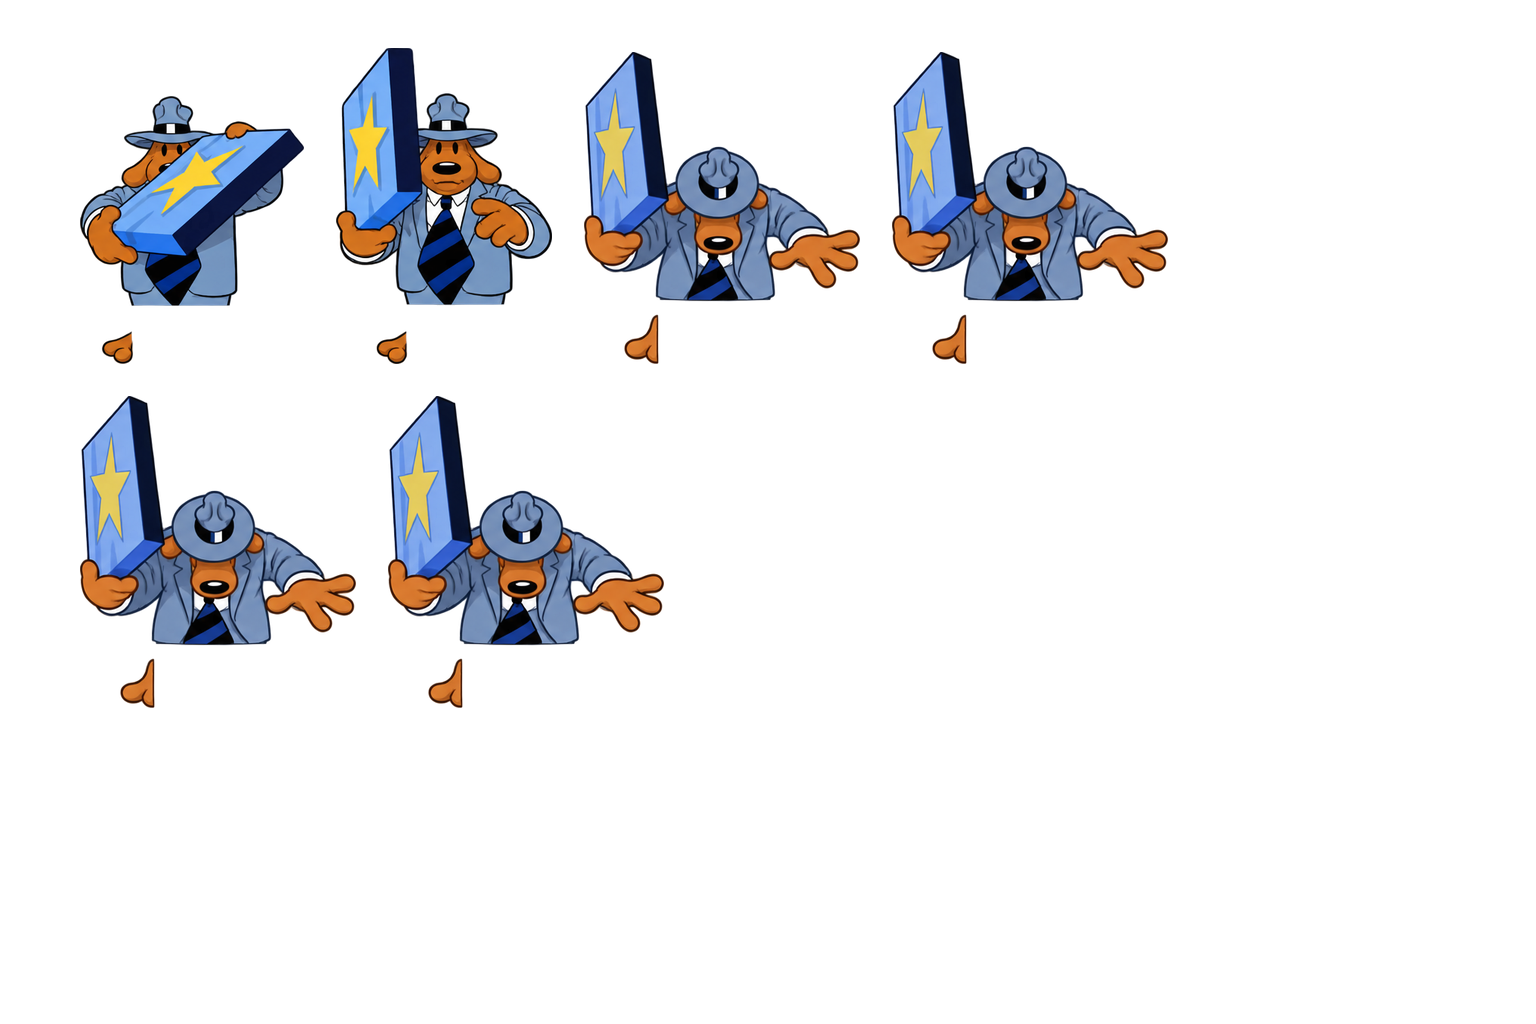
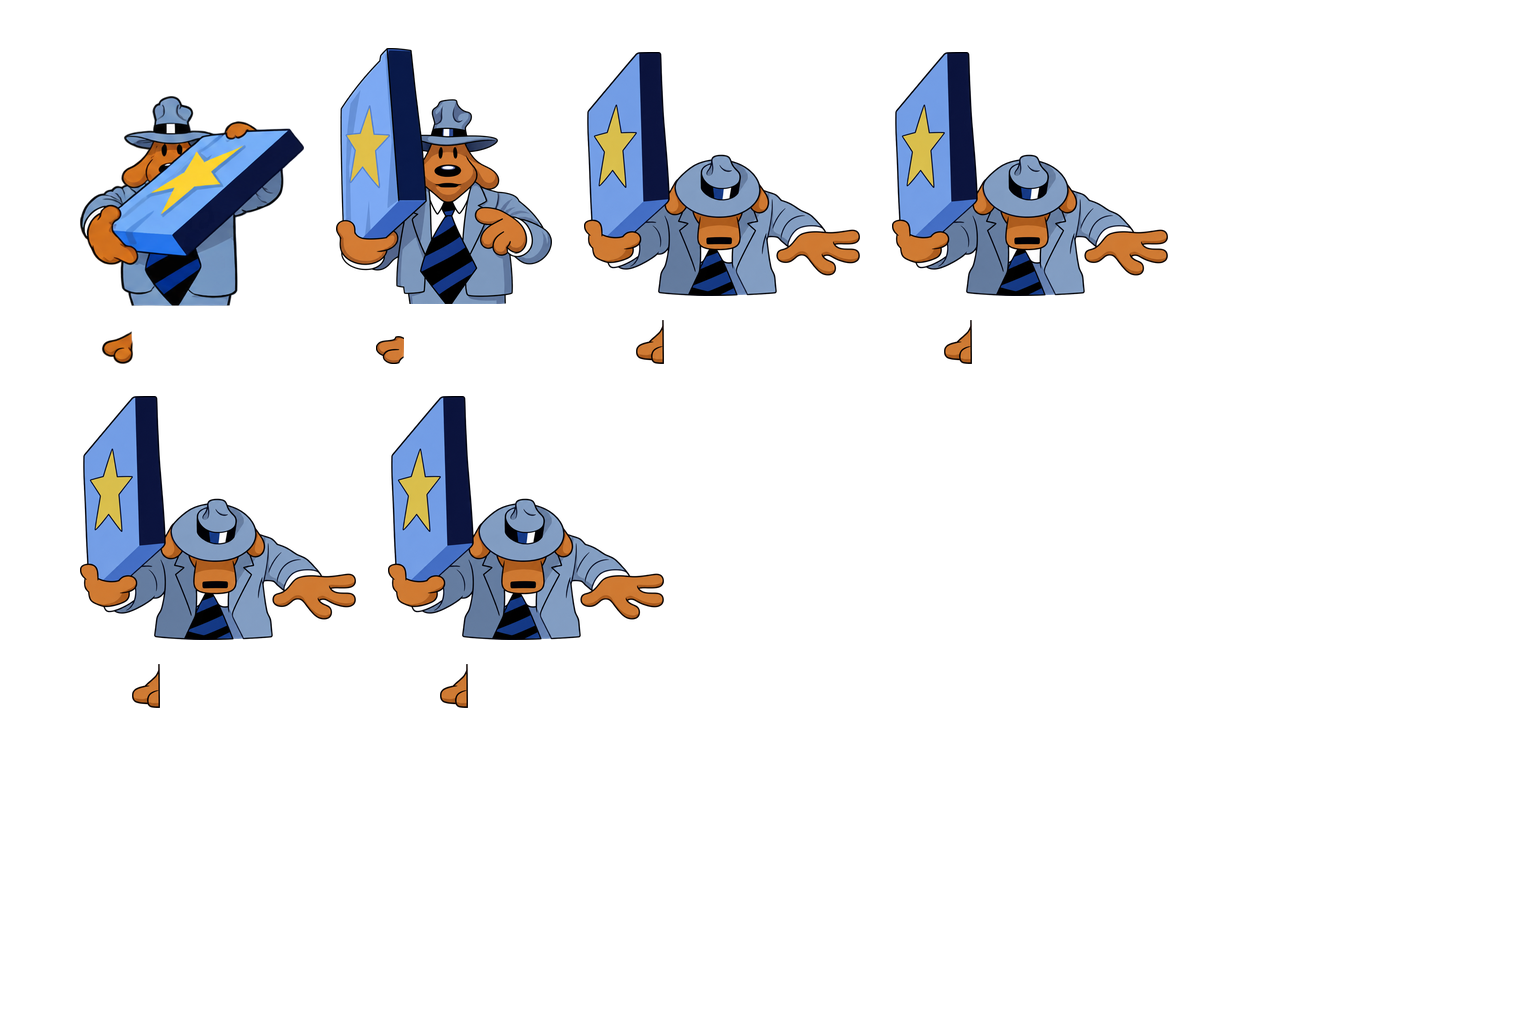
GPT (natt): sikre fig091_04 fra stash etter commit-feil

Changed region(s): [[0.2188, 0.0312, 0.7812, 0.375], [0.0312, 0.375, 0.4375, 0.6875]]

diff --git a/jobber/fig091_04/notat.md b/jobber/fig091_04/notat.md
@@ -1,9 +1,31 @@
-# Leveranse fig091_04
+# Returleveranse fig091_04
 
[1 lines of base64/hex data omitted]
+Dato: 15. oktober 2026. Gren: gpt-arbeid.
 
-Innebygd ChatGPT imagegen, ett råforsøk per midlertidig komponentgruppe. Eksakt modellnavn er ikke eksponert av verktøyet. Ordrette jobbprompter er bevart i gruppenes promptfiler, med separat kildepresisering. Sam-hovedark er identitets-/stilanker; originalene bestemmer positur, klær, farger, avkutting og lokkperspektiv. 35 unike nye motiver dekker familiens 49 ruter gjennom dokumentert kildeidentisk gjenbruk.
+Rettet costume091_1957, costume091_1958, costume091_1959, costume091_1960 og costume091_1961 etter ORDRE.md og forhandsvisning/myk_fig091_04.png. Det finnes ingen egen retur.md. Hele arket leveres som RGBA på 1536 x 1024 med ekte alfa. Costume091_1956 og alt utenfor de fem returrutenes områder er bevart pikselidentisk.
 
-Ny alfa brukes til avgrensning. Alfa under 16 nulles, øvrig alfa skaleres fra 254 til 255, så hele nye komponenten skaleres til originalens 4×-boks med Lanczos. Ingen originalmaske eller lokal warp. Mapping, råbilder, rutekart og oppskrifter ligger i rapporter/bestilling059-20261013/b-*. Kildehash for jobbens fire beskyttede filer står i b-kildehash.json og er kontrollert uendret.
+## Kilde og motiv
 
-Alle cel-sammenligninger og rel-sekvenser er visuelt gjennomgått. Bevarte særtrekk er tom nedre kropp, brun separat fotrest, egne hender og benløft samt blått lokk med gul stjerne. HD har rundere føtter/fingre, renere jakkefolder og tydeligere ansiktsstreker enn kildepikslene. Små interne konturer er en HD-tolkning, ikke pikselidentisk reproduksjon. Ingen runtime-test eller ny individuell brukergodkjenning er påstått.
+Jobbens original_1x.png og referanse.png er sett sammen med hovedark/sam.png og den returnerte forhåndsvisningen. ANALYSE.md, GJENNOMGANG.md og remake-skillen fra lokal main er lest. Figurregisteret i main, docs/figurer.csv, identifiserer kostyme 91 som Sam med blå eske med stjerne i rom 20, Trixies vogn. Romnotatet bekrefter stjernen på esken. Sam løfter lokket i denne animasjonen. Originalens palett, lokkvinkel, grep, avskårne kropp og separate brune fotrest er formgrunnlaget. Sams godkjente hovedark styrer identitet og tegnestil.
+
+Originalene for 1958 til 1961 er pikselidentiske etter uttrekk av rutene, også fotresten. Samme nye tegning er derfor brukt i alle fire. Dette er kildeidentisk gjenbruk, ikke en forenkling av forskjellige positurer. Originalens nedbøyde hode og den lille horisontale mørke ansiktsåpningen er bevart. Ingen bein eller nedre kropp er føyd til.
+
+## Verktøy og forsøk
+
+Innebygd image_gen, tre bildeforsøk. Eksakt modellnavn er ikke eksponert. prompt.txt er brukt ordrett i alle tre kall med separat returpresisering. Første forsøk på hele arket flyttet og forstørret motivene og ble forkastet. Forsøk to tegnet den felles nedbøyde posituren fra originalutsnittet, med Sam-hovedarket som bilde to. Forsøk tre tegnet 1957 fra originalutsnittet med samme hovedark. Alle faktiske prompter og råbilder er bevart i rapporter/natt-fig091_04-20261015/.
+
+Bildene er tegnet med bildeverktøyet. Python/Pillow er brukt til teknisk plassering av de nye komponentene i produksjonsarket: hoveddel og fotrest er beskåret etter den nye alfaen og skalert hver for seg med Lanczos til originalens komponentbokser. Alfa under 16 er nullstilt og resten normalisert fra 254 til 255. Ingen originalmaske eller lokal deformering er brukt. Oppskriften ligger i plassering.py.txt i rapportmappen.
+
+## Kontroll
+
+Uendret verktoy/sjekk_leveranse.py gir OK, 6 av 6 ruter OK. Systemets python3 mangler numpy, så kontrollen er kjørt med eksisterende Python 3.12 fra Codex-runtime. Ingen pakker er installert.
+
+Fast omrissmåling, snitt delt på union, steg fra 0,8520 til 0,9279 i hver av rutene 1958 til 1961. For 1957 endret den seg fra 0,9598 til 0,9356. Den nye 1957 har altså noe lavere samlet omrissoverlapp enn førbildet, selv om den består egenkontrollen. Målingen gjelder hele rutens synlige deler, inkludert fotresten. Det er ikke en måling av figuridentitet eller Toms visuelle godkjenning.
+
+Rutekart for alle seks ruter, fremdrift.json, sjekksum, kontrollutskrift og geometrimålinger ligger i rapportmappen. De fire beskyttede jobbfilene er kontrollert uendret med SHA256. Førbildet og forrige notat er bevart der.
+
+SHA256 for resultat.png: b68183fdc6cbd471d5e273da0e425cf927cd7cb27760da9cb3a16bf077f81122.
+
+Usikkerhet: Små ansiktsstreker, fingre og innvendige folder er fortsatt tegnetolkninger. Hender og fotrester har mykere kurver enn originalpikslene. Hele animasjonen er ikke avspilt i motoren, og import hos Claude og Toms visuelle vurdering gjenstår.
+
+Git pull ble forsøkt, men sandkassen nektet skriving til FETCH_HEAD utenfor arbeidsmappen. Arbeidet bruker eksisterende lokal ordre. Ingen grenbytte, commit, push eller historikkendring er gjort. fig091_03 var allerede levert i forrige lokale commit og ble hoppet over. Denne økten leverer bare fig091_04.

diff --git a/rapporter/natt-fig091_04-20261015/forrige-notat.md b/rapporter/natt-fig091_04-20261015/forrige-notat.md
@@ -1,0 +1,9 @@
+# Leveranse fig091_04
+
[1 lines of base64/hex data omitted]
+
+Innebygd ChatGPT imagegen, ett råforsøk per midlertidig komponentgruppe. Eksakt modellnavn er ikke eksponert av verktøyet. Ordrette jobbprompter er bevart i gruppenes promptfiler, med separat kildepresisering. Sam-hovedark er identitets-/stilanker; originalene bestemmer positur, klær, farger, avkutting og lokkperspektiv. 35 unike nye motiver dekker familiens 49 ruter gjennom dokumentert kildeidentisk gjenbruk.
+
+Ny alfa brukes til avgrensning. Alfa under 16 nulles, øvrig alfa skaleres fra 254 til 255, så hele nye komponenten skaleres til originalens 4×-boks med Lanczos. Ingen originalmaske eller lokal warp. Mapping, råbilder, rutekart og oppskrifter ligger i rapporter/bestilling059-20261013/b-*. Kildehash for jobbens fire beskyttede filer står i b-kildehash.json og er kontrollert uendret.
+
+Alle cel-sammenligninger og rel-sekvenser er visuelt gjennomgått. Bevarte særtrekk er tom nedre kropp, brun separat fotrest, egne hender og benløft samt blått lokk med gul stjerne. HD har rundere føtter/fingre, renere jakkefolder og tydeligere ansiktsstreker enn kildepikslene. Små interne konturer er en HD-tolkning, ikke pikselidentisk reproduksjon. Ingen runtime-test eller ny individuell brukergodkjenning er påstått.
